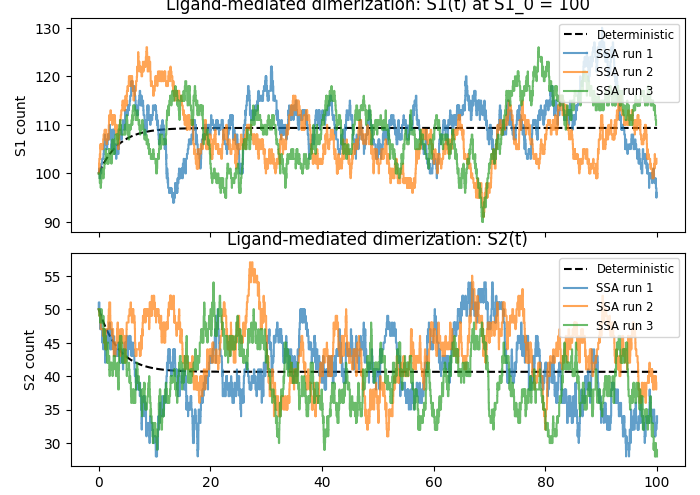
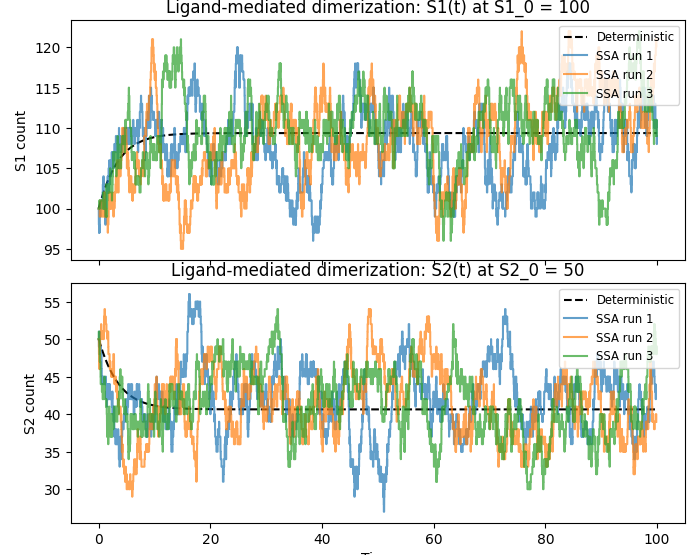
change the plot

diff --git a/M2R-Gillespie-algorithm-for-stochastic-biochemical-systems/src/ligand_dimerization_case1.py b/M2R-Gillespie-algorithm-for-stochastic-biochemical-systems/src/ligand_dimerization_case1.py
@@ -76,7 +76,7 @@ def plot_ligand_dimerization(S1_0, S2_0, t_max, n_ssa=5): # noqa
                  alpha=0.7,
                  label=(f"SSA run {i+1}"))
     ax2.set_ylabel("S2 count")
-    ax2.set_title("Ligand-mediated dimerization: S2(t)")
+    ax2.set_title("Ligand-mediated dimerization: S2(t) at S2_0 = 50")
     ax2.legend(fontsize="small", loc="upper right")
 
     # Final formatting
